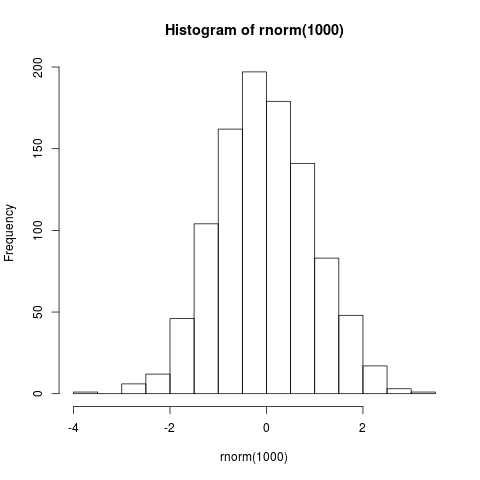
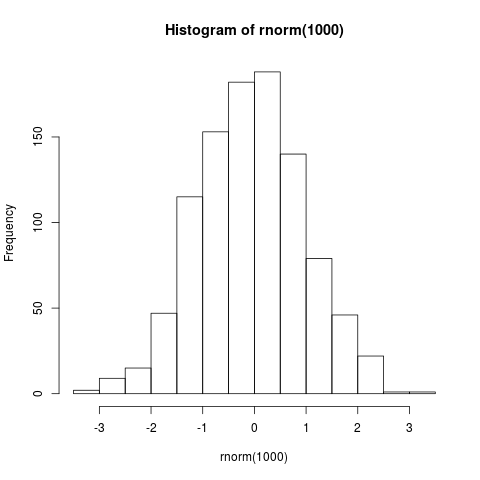
Clear init.R

diff --git a/r_min.py b/r_min.py
@@ -34,7 +34,7 @@ from django.template import Context, loader
 import subprocess
 
 def index(request):
-    subprocess.call("Rscript ./init.R", shell=True)
+    subprocess.call("Rscript ./myPlot.R", shell=True)
     return render(request, 'index.html')
 
 urlpatterns = (
